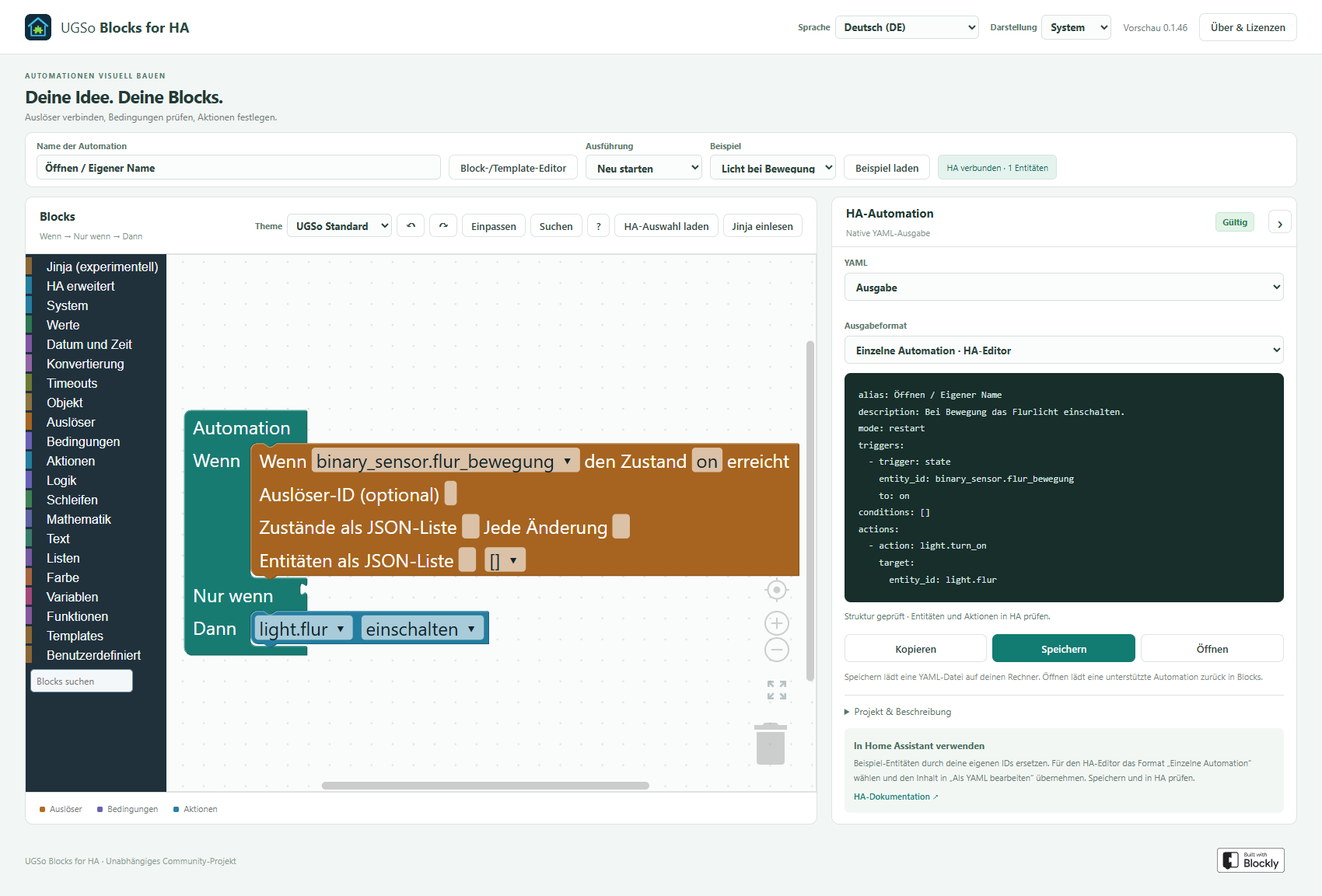
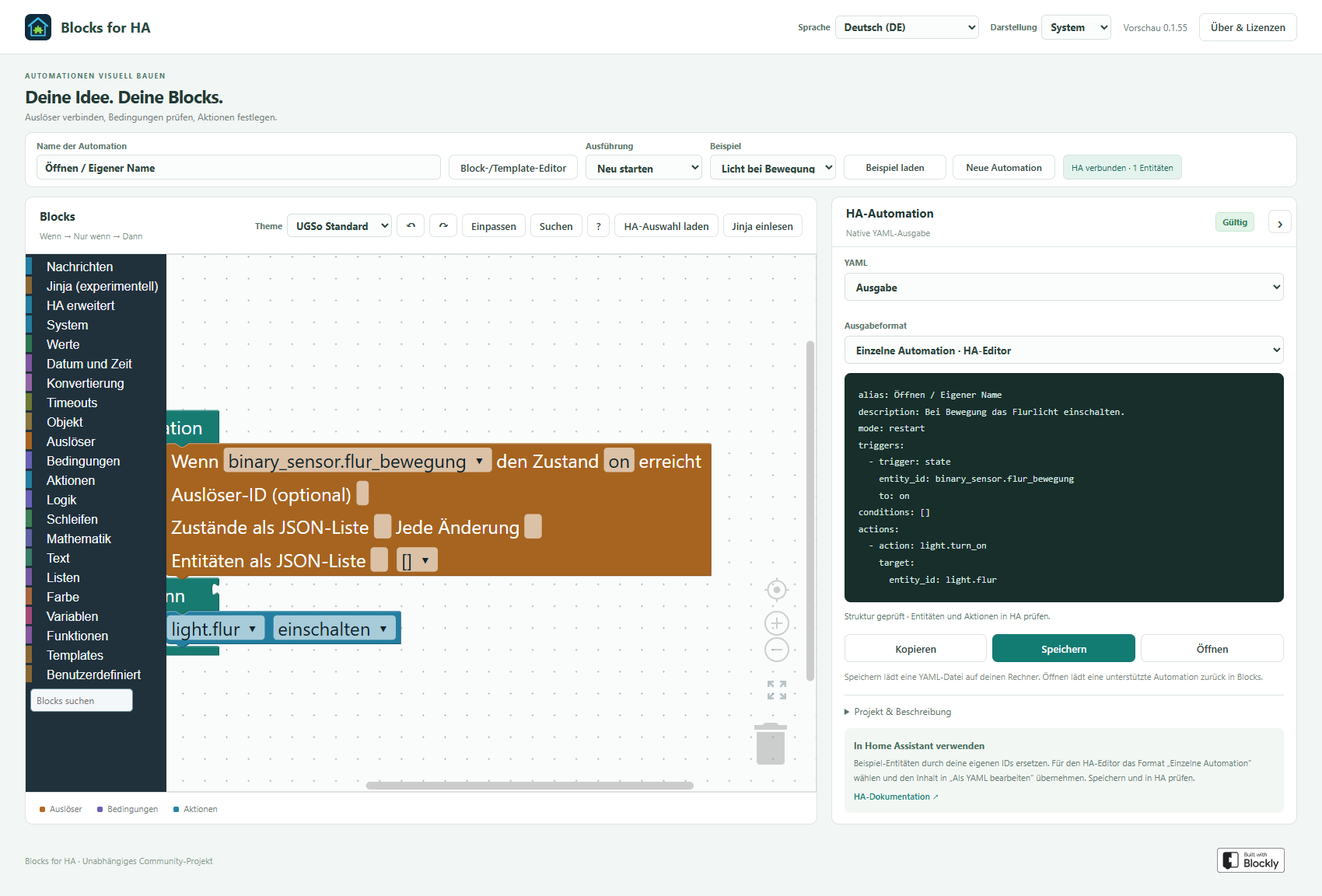
Rename Blocks and CallMeBot documentation and refresh localized screenshots

diff --git a/docs/fr/projects/callmebot/index.md b/docs/fr/projects/callmebot/index.md
@@ -1,12 +1,12 @@
 ---
-title: UGSo CallMeBot Whatsapp
+title: CallMeBot Whatsapp
 description: Messages texte WhatsApp depuis Home Assistant avec profils de destinataire et Blockly.
 ---
-# UGSo CallMeBot Whatsapp
+# CallMeBot Whatsapp
 
-Depuis 0.1.4, l’application s’appelle **UGSo CallMeBot Whatsapp**. Profils, sujets MQTT et IDs existants sont conservés. [UGSo CallMeBot Signal](../callmebot-signal/) utilise ses propres profils et clés.
+Depuis 0.1.5, l’application s’appelle **CallMeBot Whatsapp**. Profils, sujets MQTT et IDs existants sont conservés. [CallMeBot Signal](../callmebot-signal/) utilise ses propres profils et clés.
 
-**Application HA expérimentale 0.1.4** dans le [même dépôt que Blocks for HA](https://github.com/rockbaer2007/ugso-ha-mqtt-addons/tree/master/callmebot). Interface et blocs complets en **DE/EN/FR**, langue système et apparence claire/sombre/système. Inspiré de [ioBroker.whatsapp-cmb](https://github.com/ioBroker/ioBroker.whatsapp-cmb) ; implémentation UGSo originale sans ioBroker.
+**Application HA expérimentale 0.1.5** dans le [même dépôt que Blocks for HA](https://github.com/rockbaer2007/ugso-ha-mqtt-addons/tree/master/callmebot). Interface et blocs complets en **DE/EN/FR**, langue système et apparence claire/sombre/système. Inspiré de [ioBroker.whatsapp-cmb](https://github.com/ioBroker/ioBroker.whatsapp-cmb) ; implémentation UGSo originale sans ioBroker.
 
 **Correction 0.1.1 :** L’envoi fonctionne sans `crypto.randomUUID`, notamment avec Ingress en HTTP. Redémarrer l’application et recharger la page après la mise à jour. Les identifiants utilisent des octets aléatoires disponibles ou un horodatage avec compteur ; ils détectent les doublons et ne servent pas à l’authentification.
 
@@ -15,7 +15,7 @@ Depuis 0.1.4, l’application s’appelle **UGSo CallMeBot Whatsapp**. Profils, 
 ## Installation et configuration
 
 1. Ajouter `https://github.com/rockbaer2007/ugso-ha-mqtt-addons` au magasin d’applications HA.
-2. Installer **UGSo CallMeBot Whatsapp**, configurer le courtier MQTT et démarrer l’application.
+2. Installer **CallMeBot Whatsapp**, configurer le courtier MQTT et démarrer l’application.
 3. Ouvrir l’interface Ingress. Les identifiants MQTT du Supervisor sont prioritaires ; les options de l’application servent de secours.
 4. Activer son propre destinataire avec le numéro actuel du bot dans le [guide officiel](https://www.callmebot.com/blog/free-api-whatsapp-messages/). Envoyer exactement `I allow callmebot to send me messages`.
 5. Enregistrer l’ID du profil, son nom, le numéro activé **avec + et indicatif international**, ainsi que sa clé API. Choisir un profil par défaut. Maximum 16 profils.
@@ -27,7 +27,7 @@ Un champ de clé vide conserve la clé enregistrée. Les clés ne sont jamais re
 
 ### Choisir les profils enregistrés
 
-Avec **CallMeBot 0.1.2 et Blocks for HA 0.1.49**, le champ de profil ouvre une liste consultable des noms, identifiants et du destinataire par défaut. **Actualiser** recharge la liste. Le bloc affiche le nom ; projets et YAML conservent l’ID original. Un ID vide utilise le destinataire par défaut actuel.
+Avec **CallMeBot 0.1.2 et Blocks for HA 0.1.59**, le champ de profil ouvre une liste consultable des noms, identifiants et du destinataire par défaut. **Actualiser** recharge la liste. Le bloc affiche le nom ; projets et YAML conservent l’ID original. Un ID vide utilise le destinataire par défaut actuel.
 
 ![Sélecteur de profil CallMeBot en français](/assets/callmebot/profiles-fr.png)
 
@@ -37,7 +37,7 @@ Le catalogue retenu `ugso/callmebot/profiles` contient uniquement IDs, noms, pro
 
 Si l’application, MQTT, la découverte ou la connexion HA est indisponible, la saisie manuelle et le destinataire par défaut restent utilisables. Les IDs supprimés ne sont jamais remplacés automatiquement ; l’application refuse l’envoi vers un profil absent.
 
-Depuis **Blocks for HA 0.1.48**, dans **Messages → WhatsApp · CallMeBot**.
+Depuis **Blocks for HA 0.1.58**, dans **Messages → WhatsApp · CallMeBot**.
 
 ![Bloc CallMeBot](/assets/blocks-for-ha/blocks/fr/ugso_callmebot_action.png)
 

diff --git a/docs/projects/callmebot/index.md b/docs/projects/callmebot/index.md
@@ -1,12 +1,12 @@
 ---
-title: UGSo CallMeBot Whatsapp
+title: CallMeBot Whatsapp
 description: WhatsApp-Textnachrichten aus Home Assistant mit Empfängerprofilen und Blockly.
 ---
-# UGSo CallMeBot Whatsapp
+# CallMeBot Whatsapp
 
-Seit 0.1.4 heißt die App **UGSo CallMeBot Whatsapp**. Bestehende Profile, MQTT-Themen und Entitäts-IDs bleiben erhalten. Die separate [UGSo CallMeBot Signal](../callmebot-signal/) verwendet eigene Profile und Schlüssel.
+Seit 0.1.5 heißt die App **CallMeBot Whatsapp**. Bestehende Profile, MQTT-Themen und Entitäts-IDs bleiben erhalten. Die separate [CallMeBot Signal](../callmebot-signal/) verwendet eigene Profile und Schlüssel.
 
-Experimentelle **HA-App 0.1.4** im [gemeinsamen Repository mit Blocks for HA](https://github.com/rockbaer2007/ugso-ha-mqtt-addons/tree/master/callmebot). Oberfläche und Bausteine sind vollständig in **DE/EN/FR**, mit Systemsprache und Hell/Dunkel/System. Inspiration: [ioBroker.whatsapp-cmb](https://github.com/ioBroker/ioBroker.whatsapp-cmb); eigenständige UGSo-Implementierung ohne ioBroker.
+Experimentelle **HA-App 0.1.5** im [gemeinsamen Repository mit Blocks for HA](https://github.com/rockbaer2007/ugso-ha-mqtt-addons/tree/master/callmebot). Oberfläche und Bausteine sind vollständig in **DE/EN/FR**, mit Systemsprache und Hell/Dunkel/System. Inspiration: [ioBroker.whatsapp-cmb](https://github.com/ioBroker/ioBroker.whatsapp-cmb); eigenständige UGSo-Implementierung ohne ioBroker.
 
 **Korrektur 0.1.1:** Der Versandbutton funktioniert auch ohne `crypto.randomUUID`, etwa bei HTTP-Ingress. Nach dem Update die App neu starten und die Seite neu laden. Anfrage-IDs verwenden verfügbare Zufallsbytes oder einen Zeitstempel mit Zähler; sie dienen der Dublettenprüfung, nicht der Anmeldung.
 
@@ -15,7 +15,7 @@ Experimentelle **HA-App 0.1.4** im [gemeinsamen Repository mit Blocks for HA](ht
 ## Installieren und einrichten
 
 1. Das Repository `https://github.com/rockbaer2007/ugso-ha-mqtt-addons` im HA-App-Store hinzufügen.
-2. **UGSo CallMeBot Whatsapp** installieren, MQTT-Broker einrichten und App starten.
+2. **CallMeBot Whatsapp** installieren, MQTT-Broker einrichten und App starten.
 3. Oberfläche über HA-Ingress öffnen. Der interne MQTT-Dienst liefert bevorzugt die Broker-Zugangsdaten; die App-Optionen sind der Fallback.
 4. Mit der aktuellen Bot-Nummer aus der [offiziellen Aktivierungsanleitung](https://www.callmebot.com/blog/free-api-whatsapp-messages/) den eigenen Empfänger aktivieren. Genau `I allow callmebot to send me messages` an den Bot senden.
 5. Profil-ID, Name, eigene aktivierte Telefonnummer **mit + und Ländervorwahl** sowie passenden API-Schlüssel speichern. Standardprofil festlegen. Bis zu 16 Profile.
@@ -27,7 +27,7 @@ Ein leeres Schlüsselfeld beim Speichern behält den vorhandenen Schlüssel. Die
 
 ### Gespeicherte Profile auswählen
 
-Ab **CallMeBot 0.1.2 und Blocks for HA 0.1.49** öffnet das Profilfeld eine durchsuchbare Auswahl mit Profilnamen, Profil-ID und Standardempfänger. **Neu laden** aktualisiert die Liste. Im Block steht der Profilname, im Projekt und YAML bleibt die unveränderte ID gespeichert. Eine leere ID verwendet den aktuellen Standardempfänger.
+Ab **CallMeBot 0.1.2 und Blocks for HA 0.1.59** öffnet das Profilfeld eine durchsuchbare Auswahl mit Profilnamen, Profil-ID und Standardempfänger. **Neu laden** aktualisiert die Liste. Im Block steht der Profilname, im Projekt und YAML bleibt die unveränderte ID gespeichert. Eine leere ID verwendet den aktuellen Standardempfänger.
 
 ![CallMeBot-Profilauswahl auf Deutsch](/assets/callmebot/profiles-de.png)
 
@@ -37,7 +37,7 @@ Der retained Katalog `ugso/callmebot/profiles` enthält nur IDs, Namen, Standard
 
 Wenn App, MQTT, Discovery oder HA-Verbindung fehlen, bleiben manuelle Profil-ID und Standardempfänger nutzbar. Gelöschte IDs werden im Projekt nicht automatisch ersetzt; die App lehnt einen Versand an ein fehlendes Profil ab.
 
-Seit **Blocks for HA 0.1.48** unter **Nachrichten → WhatsApp · CallMeBot**.
+Seit **Blocks for HA 0.1.58** unter **Nachrichten → WhatsApp · CallMeBot**.
 
 ![CallMeBot-Block](/assets/blocks-for-ha/blocks/de/ugso_callmebot_action.png)
 

diff --git a/docs/en/projects/callmebot/index.md b/docs/en/projects/callmebot/index.md
@@ -1,12 +1,12 @@
 ---
-title: UGSo CallMeBot Whatsapp
+title: CallMeBot Whatsapp
 description: WhatsApp text messages from Home Assistant with recipient profiles and Blockly.
 ---
-# UGSo CallMeBot Whatsapp
+# CallMeBot Whatsapp
 
-Since 0.1.4 the app is named **UGSo CallMeBot Whatsapp**. Existing profiles, MQTT topics and entity IDs are preserved. The separate [UGSo CallMeBot Signal](../callmebot-signal/) uses its own profiles and keys.
+Since 0.1.5 the app is named **CallMeBot Whatsapp**. Existing profiles, MQTT topics and entity IDs are preserved. The separate [CallMeBot Signal](../callmebot-signal/) uses its own profiles and keys.
 
-Experimental **HA App 0.1.4** in the [same repository as Blocks for HA](https://github.com/rockbaer2007/ugso-ha-mqtt-addons/tree/master/callmebot). Complete **DE/EN/FR** interface and blocks, system language and light/dark/system appearance. Inspired by [ioBroker.whatsapp-cmb](https://github.com/ioBroker/ioBroker.whatsapp-cmb); original UGSo implementation without ioBroker.
+Experimental **HA App 0.1.5** in the [same repository as Blocks for HA](https://github.com/rockbaer2007/ugso-ha-mqtt-addons/tree/master/callmebot). Complete **DE/EN/FR** interface and blocks, system language and light/dark/system appearance. Inspired by [ioBroker.whatsapp-cmb](https://github.com/ioBroker/ioBroker.whatsapp-cmb); original UGSo implementation without ioBroker.
 
 **Fix in 0.1.1:** Sending works without `crypto.randomUUID`, including HTTP Ingress. Restart the app and reload the page after updating. Request IDs use random bytes when available or a timestamp/counter fallback; they deduplicate requests and are not authentication tokens.
 
@@ -15,7 +15,7 @@ Experimental **HA App 0.1.4** in the [same repository as Blocks for HA](https://
 ## Installation and setup
 
 1. Add `https://github.com/rockbaer2007/ugso-ha-mqtt-addons` to the HA App Store.
-2. Install **UGSo CallMeBot Whatsapp**, configure the MQTT broker and start the app.
+2. Install **CallMeBot Whatsapp**, configure the MQTT broker and start the app.
 3. Open the Ingress UI. Supervisor MQTT credentials take priority; app options are the fallback.
 4. Activate your own recipient using the current bot number from the [official activation guide](https://www.callmebot.com/blog/free-api-whatsapp-messages/). Send exactly `I allow callmebot to send me messages`.
 5. Save a profile ID, name, activated phone number **with + and country code**, and its matching API key. Select a default. Up to 16 profiles.
@@ -27,7 +27,7 @@ A blank key field preserves the stored key. Keys are never returned to the UI. T
 
 ### Select saved profiles
 
-With **CallMeBot 0.1.2 and Blocks for HA 0.1.49**, the profile field opens a searchable list of names, IDs and the default recipient. **Refresh** reloads the list. The block displays the name while projects and YAML retain the original ID. An empty ID uses the current default recipient.
+With **CallMeBot 0.1.2 and Blocks for HA 0.1.59**, the profile field opens a searchable list of names, IDs and the default recipient. **Refresh** reloads the list. The block displays the name while projects and YAML retain the original ID. An empty ID uses the current default recipient.
 
 ![English CallMeBot profile picker](/assets/callmebot/profiles-en.png)
 
@@ -37,7 +37,7 @@ The retained `ugso/callmebot/profiles` catalog contains IDs, names, default prof
 
 If the app, MQTT, discovery or HA connection is unavailable, manual IDs and the default recipient remain usable. Deleted IDs are never silently replaced in projects; the app rejects sending to a missing profile.
 
-Since **Blocks for HA 0.1.48**, under **Messages → WhatsApp · CallMeBot**.
+Since **Blocks for HA 0.1.58**, under **Messages → WhatsApp · CallMeBot**.
 
 ![CallMeBot block](/assets/blocks-for-ha/blocks/en/ugso_callmebot_action.png)
 

diff --git a/docs/en/projects/blocks-for-ha/blocks.md b/docs/en/projects/blocks-for-ha/blocks.md
@@ -1,6 +1,6 @@
 ---
 title: Block catalog
-description: All UGSo Blocks for HA with images, functionality and original plugins.
+description: All Blocks for HA with images, functionality and original plugins.
 ---
 
 # Block catalog
@@ -13,8 +13,8 @@ Since **0.1.50**, also **Signal · CallMeBot** with separate profile selection. 
 
 | Block | Image | Function |
 | --- | --- | --- |
-| **WhatsApp · CallMeBot**<br><code>ugso_callmebot_action</code> | <img src="/assets/blocks-for-ha/blocks/en/ugso_callmebot_action.png" alt="CallMeBot" style="max-width:360px;max-height:180px"> | Recipient profile, text/Jinja and logging. MQTT sends through the UGSo CallMeBot Whatsapp app. Keys remain in the backend. |
-| **Signal · CallMeBot**<br><code>ugso_callmebot_signal_action</code> | <img src="/assets/blocks-for-ha/blocks/en/ugso_callmebot_signal_action.png" alt="CallMeBot" style="max-width:360px;max-height:180px"> | Recipient profile, text/Jinja and logging. MQTT sends through the UGSo CallMeBot Signal app. Keys remain in the backend. |
+| **WhatsApp · CallMeBot**<br><code>ugso_callmebot_action</code> | <img src="/assets/blocks-for-ha/blocks/en/ugso_callmebot_action.png" alt="CallMeBot" style="max-width:360px;max-height:180px"> | Recipient profile, text/Jinja and logging. MQTT sends through the CallMeBot Whatsapp app. Keys remain in the backend. |
+| **Signal · CallMeBot**<br><code>ugso_callmebot_signal_action</code> | <img src="/assets/blocks-for-ha/blocks/en/ugso_callmebot_signal_action.png" alt="CallMeBot" style="max-width:360px;max-height:180px"> | Recipient profile, text/Jinja and logging. MQTT sends through the CallMeBot Signal app. Keys remain in the backend. |
 | **WhatsApp integration**<br><code>ugso_whatsapp_action</code> | <img src="/assets/blocks-for-ha/blocks/en/ugso_whatsapp_action.png" alt="WhatsApp integration" style="max-width:360px;max-height:180px"> | whatsapp.send_message with number or target, or notify.whatsapp. Recipient without +, message and optional account. Configure its token once in HA. |
 
 ## Functions since 0.1.47

diff --git a/docs/projects/callmebot-signal/index.md b/docs/projects/callmebot-signal/index.md
@@ -1,16 +1,16 @@
 ---
-title: UGSo CallMeBot Signal
+title: CallMeBot Signal
 description: Signal-Textnachrichten aus Home Assistant mit Empfängerprofilen und Blockly.
 ---
-# UGSo CallMeBot Signal
+# CallMeBot Signal
 
-Experimentelle **HA-App 0.1.0** im [gemeinsamen Repository mit Blocks for HA](https://github.com/rockbaer2007/ugso-ha-mqtt-addons/tree/master/callmebot_signal). Vollständig **DE/EN/FR**, Systemsprache und Hell/Dunkel/System. Eigenständige UGSo-Implementierung, inspiriert von [ioBroker.signal-cmb](https://github.com/derAlff/ioBroker.signal-cmb).
+Experimentelle **HA-App 0.1.1** im [gemeinsamen Repository mit Blocks for HA](https://github.com/rockbaer2007/ugso-ha-mqtt-addons/tree/master/callmebot_signal). Vollständig **DE/EN/FR**, Systemsprache und Hell/Dunkel/System. Eigenständige UGSo-Implementierung, inspiriert von [ioBroker.signal-cmb](https://github.com/derAlff/ioBroker.signal-cmb).
 
 ![Signal-Oberfläche auf Deutsch](/assets/callmebot-signal/de.png)
 
 ## Einrichtung
 
-1. Repository `https://github.com/rockbaer2007/ugso-ha-mqtt-addons` im HA-App-Store hinzufügen und **UGSo CallMeBot Signal** installieren.
+1. Repository `https://github.com/rockbaer2007/ugso-ha-mqtt-addons` im HA-App-Store hinzufügen und **CallMeBot Signal** installieren.
 2. MQTT in HA einrichten, App starten und Oberfläche über Ingress öffnen. Der interne MQTT-Dienst liefert bevorzugt die Zugangsdaten; App-Optionen dienen als Fallback.
 3. Den aktuellen Bot-Kontakt aus der [offiziellen Signal-Aktivierungsanleitung](https://www.callmebot.com/blog/free-api-signal-send-messages/) verwenden. In **Signal** die dort angegebene Freischaltnachricht senden und den **Signal-API-Schlüssel** abwarten.
 4. Profil-ID, Anzeigename, eigene internationale Telefonnummer **mit +** oder **Signal-UUID** sowie den passenden Schlüssel speichern. Bei verborgener Telefonnummer kann der Bot eine UUID liefern. Den Wert aus dem Aktivierungslink unverändert übernehmen.

diff --git a/docs/fr/projects/callmebot-signal/index.md b/docs/fr/projects/callmebot-signal/index.md
@@ -1,16 +1,16 @@
 ---
-title: UGSo CallMeBot Signal
+title: CallMeBot Signal
 description: Messages texte Signal depuis Home Assistant avec profils et Blockly.
 ---
-# UGSo CallMeBot Signal
+# CallMeBot Signal
 
-**Application HA 0.1.0 expérimentale** dans le [dépôt commun de Blocks for HA](https://github.com/rockbaer2007/ugso-ha-mqtt-addons/tree/master/callmebot_signal). Entièrement **DE/EN/FR**, langue système et apparence claire/sombre/système. Implémentation UGSo originale inspirée de [ioBroker.signal-cmb](https://github.com/derAlff/ioBroker.signal-cmb).
+**Application HA 0.1.1 expérimentale** dans le [dépôt commun de Blocks for HA](https://github.com/rockbaer2007/ugso-ha-mqtt-addons/tree/master/callmebot_signal). Entièrement **DE/EN/FR**, langue système et apparence claire/sombre/système. Implémentation UGSo originale inspirée de [ioBroker.signal-cmb](https://github.com/derAlff/ioBroker.signal-cmb).
 
 ![Interface Signal en français](/assets/callmebot-signal/fr.png)
 
 ## Configuration
 
-1. Ajouter `https://github.com/rockbaer2007/ugso-ha-mqtt-addons` au magasin HA et installer **UGSo CallMeBot Signal**.
+1. Ajouter `https://github.com/rockbaer2007/ugso-ha-mqtt-addons` au magasin HA et installer **CallMeBot Signal**.
 2. Configurer MQTT dans HA, démarrer l’application et ouvrir son interface Ingress. Les identifiants MQTT du Supervisor sont prioritaires ; les options servent de secours.
 3. Utiliser le contact actuel du bot indiqué dans le [guide officiel Signal](https://www.callmebot.com/blog/free-api-signal-send-messages/). Envoyer la phrase d’activation dans **Signal** et attendre la **clé API Signal**.
 4. Enregistrer l’ID du profil, son nom, votre numéro international **avec +** ou **UUID Signal**, et la clé correspondante. Si le numéro est masqué, le bot peut fournir un UUID. Copier le destinataire du lien d’activation sans le modifier.

diff --git a/docs/projects/blocks-for-ha/blocks.md b/docs/projects/blocks-for-ha/blocks.md
@@ -13,8 +13,8 @@ Seit **0.1.50** zusätzlich **Signal · CallMeBot** mit eigener Profilauswahl. [
 
 | Block | Bild | Funktion |
 | --- | --- | --- |
-| **WhatsApp · CallMeBot**<br><code>ugso_callmebot_action</code> | <img src="/assets/blocks-for-ha/blocks/de/ugso_callmebot_action.png" alt="CallMeBot" style="max-width:360px;max-height:180px"> | Empfängerprofil, Text/Jinja und Protokollstufe. MQTT-Versand über die UGSo CallMeBot Whatsapp-App. Schlüssel bleiben im Backend. |
-| **Signal · CallMeBot**<br><code>ugso_callmebot_signal_action</code> | <img src="/assets/blocks-for-ha/blocks/de/ugso_callmebot_signal_action.png" alt="CallMeBot" style="max-width:360px;max-height:180px"> | Empfängerprofil, Text/Jinja und Protokollstufe. MQTT-Versand über die UGSo CallMeBot Signal-App. Schlüssel bleiben im Backend. |
+| **WhatsApp · CallMeBot**<br><code>ugso_callmebot_action</code> | <img src="/assets/blocks-for-ha/blocks/de/ugso_callmebot_action.png" alt="CallMeBot" style="max-width:360px;max-height:180px"> | Empfängerprofil, Text/Jinja und Protokollstufe. MQTT-Versand über die CallMeBot Whatsapp-App. Schlüssel bleiben im Backend. |
+| **Signal · CallMeBot**<br><code>ugso_callmebot_signal_action</code> | <img src="/assets/blocks-for-ha/blocks/de/ugso_callmebot_signal_action.png" alt="CallMeBot" style="max-width:360px;max-height:180px"> | Empfängerprofil, Text/Jinja und Protokollstufe. MQTT-Versand über die CallMeBot Signal-App. Schlüssel bleiben im Backend. |
 | **WhatsApp-Integration**<br><code>ugso_whatsapp_action</code> | <img src="/assets/blocks-for-ha/blocks/de/ugso_whatsapp_action.png" alt="WhatsApp-Integration" style="max-width:360px;max-height:180px"> | whatsapp.send_message mit number oder target sowie notify.whatsapp. Empfänger ohne +, Nachricht, optionales Konto. Token einmal in der HA-Integration einrichten. |
 
 ## Funktionen seit 0.1.47

diff --git a/docs/fr/projects/blocks-for-ha/blocks.md b/docs/fr/projects/blocks-for-ha/blocks.md
@@ -13,8 +13,8 @@ Depuis **0.1.50**, également **Signal · CallMeBot** avec sa propre sélection 
 
 | Bloc | Image | Fonction |
 | --- | --- | --- |
-| **WhatsApp · CallMeBot**<br><code>ugso_callmebot_action</code> | <img src="/assets/blocks-for-ha/blocks/fr/ugso_callmebot_action.png" alt="CallMeBot" style="max-width:360px;max-height:180px"> | Profil, texte/Jinja et journal. Envoi MQTT via l’application UGSo CallMeBot Whatsapp. Clés conservées dans le backend. |
-| **Signal · CallMeBot**<br><code>ugso_callmebot_signal_action</code> | <img src="/assets/blocks-for-ha/blocks/fr/ugso_callmebot_signal_action.png" alt="CallMeBot" style="max-width:360px;max-height:180px"> | Profil, texte/Jinja et journal. Envoi MQTT via l’application UGSo CallMeBot Signal. Clés conservées dans le backend. |
+| **WhatsApp · CallMeBot**<br><code>ugso_callmebot_action</code> | <img src="/assets/blocks-for-ha/blocks/fr/ugso_callmebot_action.png" alt="CallMeBot" style="max-width:360px;max-height:180px"> | Profil, texte/Jinja et journal. Envoi MQTT via l’application CallMeBot Whatsapp. Clés conservées dans le backend. |
+| **Signal · CallMeBot**<br><code>ugso_callmebot_signal_action</code> | <img src="/assets/blocks-for-ha/blocks/fr/ugso_callmebot_signal_action.png" alt="CallMeBot" style="max-width:360px;max-height:180px"> | Profil, texte/Jinja et journal. Envoi MQTT via l’application CallMeBot Signal. Clés conservées dans le backend. |
 | **Intégration WhatsApp**<br><code>ugso_whatsapp_action</code> | <img src="/assets/blocks-for-ha/blocks/fr/ugso_whatsapp_action.png" alt="Intégration WhatsApp" style="max-width:360px;max-height:180px"> | whatsapp.send_message avec number ou target, ou notify.whatsapp. Destinataire sans +, message et compte facultatif. Configurer le jeton une fois dans HA. |
 
 ## Fonctions depuis 0.1.47

diff --git a/docs/en/projects/callmebot-signal/index.md b/docs/en/projects/callmebot-signal/index.md
@@ -1,16 +1,16 @@
 ---
-title: UGSo CallMeBot Signal
+title: CallMeBot Signal
 description: Signal text messages from Home Assistant with recipient profiles and Blockly.
 ---
-# UGSo CallMeBot Signal
+# CallMeBot Signal
 
-Experimental **HA app 0.1.0** in the [shared Blocks for HA repository](https://github.com/rockbaer2007/ugso-ha-mqtt-addons/tree/master/callmebot_signal). Complete **DE/EN/FR**, system language and light/dark/system appearance. Original UGSo implementation inspired by [ioBroker.signal-cmb](https://github.com/derAlff/ioBroker.signal-cmb).
+Experimental **HA app 0.1.1** in the [shared Blocks for HA repository](https://github.com/rockbaer2007/ugso-ha-mqtt-addons/tree/master/callmebot_signal). Complete **DE/EN/FR**, system language and light/dark/system appearance. Original UGSo implementation inspired by [ioBroker.signal-cmb](https://github.com/derAlff/ioBroker.signal-cmb).
 
 ![Signal interface in English](/assets/callmebot-signal/en.png)
 
 ## Setup
 
-1. Add `https://github.com/rockbaer2007/ugso-ha-mqtt-addons` to the HA app store and install **UGSo CallMeBot Signal**.
+1. Add `https://github.com/rockbaer2007/ugso-ha-mqtt-addons` to the HA app store and install **CallMeBot Signal**.
 2. Configure HA MQTT, start the app and open its Ingress UI. Supervisor MQTT credentials take priority; app options are the fallback.
 3. Use the current bot contact from the [official Signal activation guide](https://www.callmebot.com/blog/free-api-signal-send-messages/). Send its activation phrase in **Signal** and wait for your **Signal API key**.
 4. Save a profile ID, display name, your international phone number **with +** or **Signal UUID**, and matching key. When your number is hidden, the bot may provide a UUID. Copy the recipient value from the activation link unchanged.

diff --git a/docs/en/projects/blocks-for-ha/index.md b/docs/en/projects/blocks-for-ha/index.md
@@ -1,8 +1,8 @@
 ---
-title: UGSo Blocks for HA
+title: Blocks for HA
 description: Create native Home Assistant automations with visual Blocks.
 ---
-# UGSo Blocks for HA
+# Blocks for HA
 
 ## Empty start since 0.1.52
 
@@ -68,7 +68,7 @@ Our original UGSo house/puzzle icon is used by the UI, browser and HA app. Ten o
 
 ## Install from the HA app store
 
-Add or refresh `https://github.com/rockbaer2007/ugso-ha-mqtt-addons` in the app store. Install **UGSo Blocks for HA**, start it and select **Open Web UI**. The app supports amd64 and aarch64 and serves the editor through HA ingress. No additional token is needed to open it. It reads HA entities through the Supervisor and does not write HA system files.
+Add or refresh `https://github.com/rockbaer2007/ugso-ha-mqtt-addons` in the app store. Install **Blocks for HA**, start it and select **Open Web UI**. The app supports amd64 and aarch64 and serves the editor through HA ingress. No additional token is needed to open it. It reads HA entities through the Supervisor and does not write HA system files.
 
 ## Start and files
 
@@ -85,7 +85,7 @@ Editor: `http://127.0.0.1:4180/`. Preview, copy, download and reopen supported Y
 
 111 block types including the automation root; variables, templates, date/time and conversion are described in the catalog:
 
-| ioBroker concept | UGSo Blocks for HA | HA output |
+| ioBroker concept | Blocks for HA | HA output |
 | --- | --- | --- |
 | Script container | Automation | `triggers`, `conditions`, `actions` |
 | State trigger | State reached | `trigger: state` |

diff --git a/docs/projects-mqtt/index.md b/docs/projects-mqtt/index.md
@@ -6,9 +6,9 @@ Das gemeinsame Repository ist die zentrale Veröffentlichung für alle Home-Assi
 
 | Projekt | Dokumentation |
 | --- | --- |
-| [UGSo CallMeBot Whatsapp](/projects/callmebot/) | Experimentelle HA-App 0.1.4: Empfängerprofile, WhatsApp-Texte über MQTT, DE/EN/FR und passende Blockly-Bausteine. |
-| [UGSo CallMeBot Signal](/projects/callmebot-signal/) | Experimentelle HA-App 0.1.0: Signal-Texte, Telefon-/UUID-Profile, eigener MQTT-Namensraum und Blockly mit Profilauswahl in DE/EN/FR. |
-| [UGSo Blocks for HA](/projects/blocks-for-ha/) | Experimentelle HA-App 0.1.3: visuelle Blocks für native Automationen, YAML-Import/-Export und erweiterbare Falls-Zweige; Editor über HA-Ingress. |
+| [CallMeBot Whatsapp](/projects/callmebot/) | Experimentelle HA-App 0.1.4: Empfängerprofile, WhatsApp-Texte über MQTT, DE/EN/FR und passende Blockly-Bausteine. |
+| [CallMeBot Signal](/projects/callmebot-signal/) | Experimentelle HA-App 0.1.0: Signal-Texte, Telefon-/UUID-Profile, eigener MQTT-Namensraum und Blockly mit Profilauswahl in DE/EN/FR. |
+| [Blocks for HA](/projects/blocks-for-ha/) | Experimentelle HA-App 0.1.3: visuelle Blocks für native Automationen, YAML-Import/-Export und erweiterbare Falls-Zweige; Editor über HA-Ingress. |
 | [Grafik Visual Studio](/projects/grafik-visual-studio/) | Grafischer Editor und Runtime für HA-Visualisierungen. |
 
 Diese Projekte liegen im selben Repository wie die folgenden MQTT-Apps.

diff --git a/docs/en/projects-mqtt/index.md b/docs/en/projects-mqtt/index.md
@@ -6,9 +6,9 @@ The shared repository is the central publishing location for all UGSo Software H
 
 | Project | Documentation |
 | --- | --- |
-| [UGSo CallMeBot Whatsapp](/en/projects/callmebot/) | Experimental HA App 0.1.4: recipient profiles, WhatsApp texts via MQTT, DE/EN/FR and matching Blockly blocks. |
-| [UGSo CallMeBot Signal](/en/projects/callmebot-signal/) | Experimental HA app 0.1.0: Signal texts, phone/UUID profiles, separate MQTT namespace and Blockly profile selection in DE/EN/FR. |
-| [UGSo Blocks for HA](/en/projects/blocks-for-ha/) | Experimental HA app 0.1.3: visual Blocks for native automations, YAML import/export and extensible branches; editor through HA ingress. |
+| [CallMeBot Whatsapp](/en/projects/callmebot/) | Experimental HA App 0.1.4: recipient profiles, WhatsApp texts via MQTT, DE/EN/FR and matching Blockly blocks. |
+| [CallMeBot Signal](/en/projects/callmebot-signal/) | Experimental HA app 0.1.0: Signal texts, phone/UUID profiles, separate MQTT namespace and Blockly profile selection in DE/EN/FR. |
+| [Blocks for HA](/en/projects/blocks-for-ha/) | Experimental HA app 0.1.3: visual Blocks for native automations, YAML import/export and extensible branches; editor through HA ingress. |
 | [Grafik Visual Studio](/en/projects/grafik-visual-studio/) | Graphical editor and runtime for HA visualizations. |
 
 These projects live in the same repository as the MQTT apps below.
